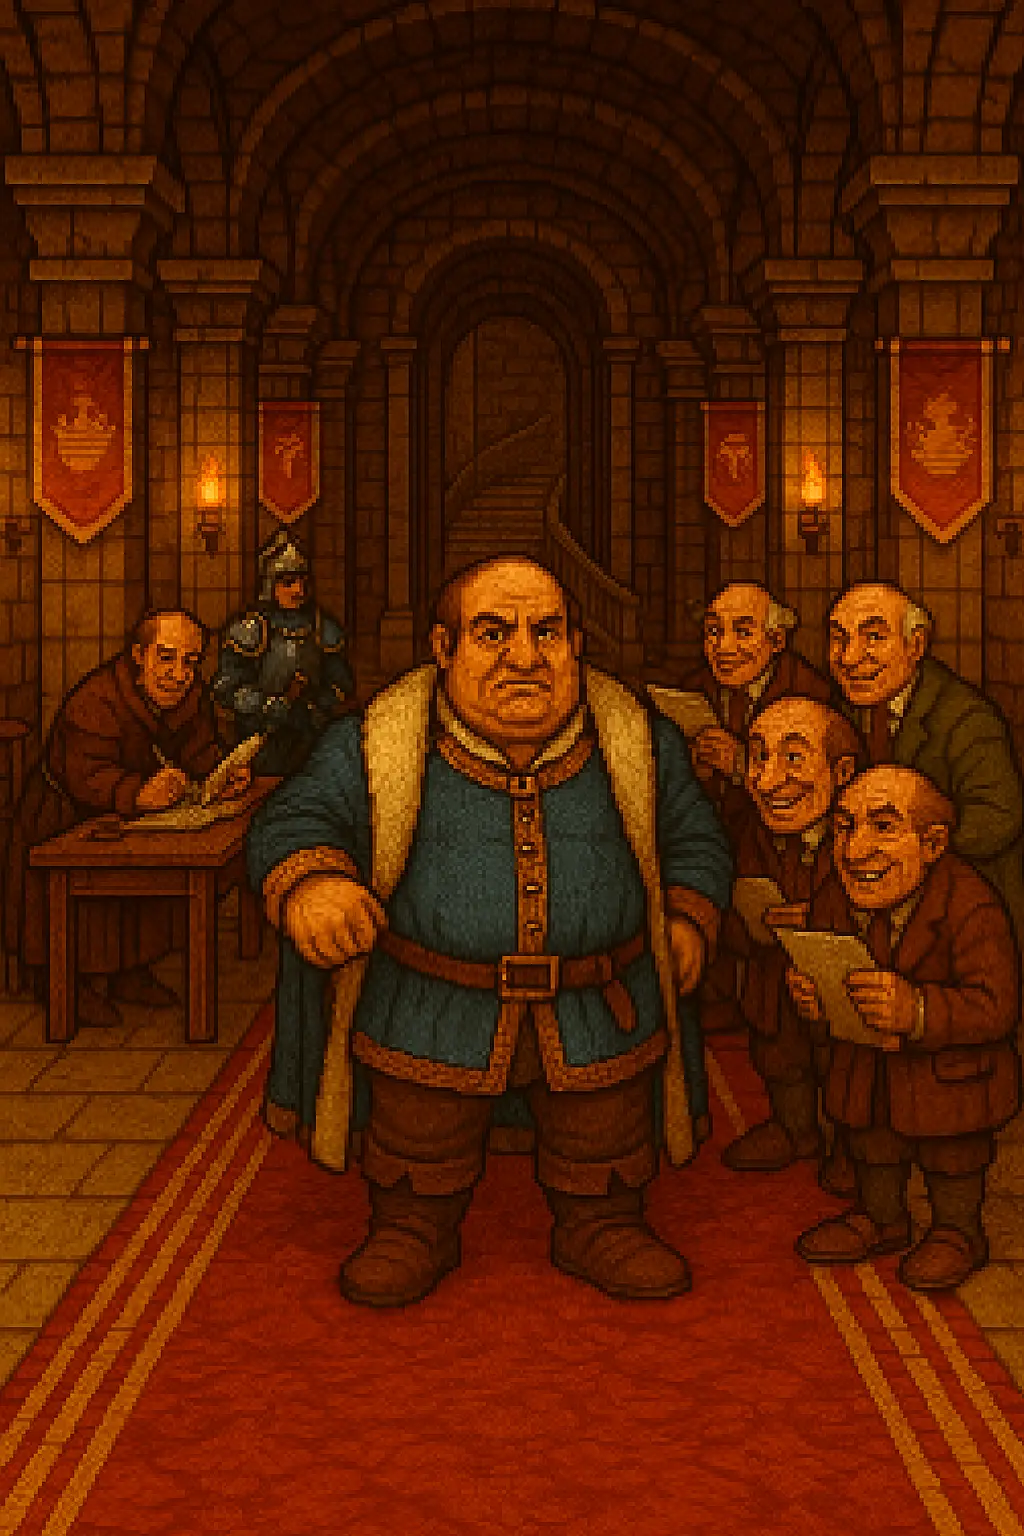
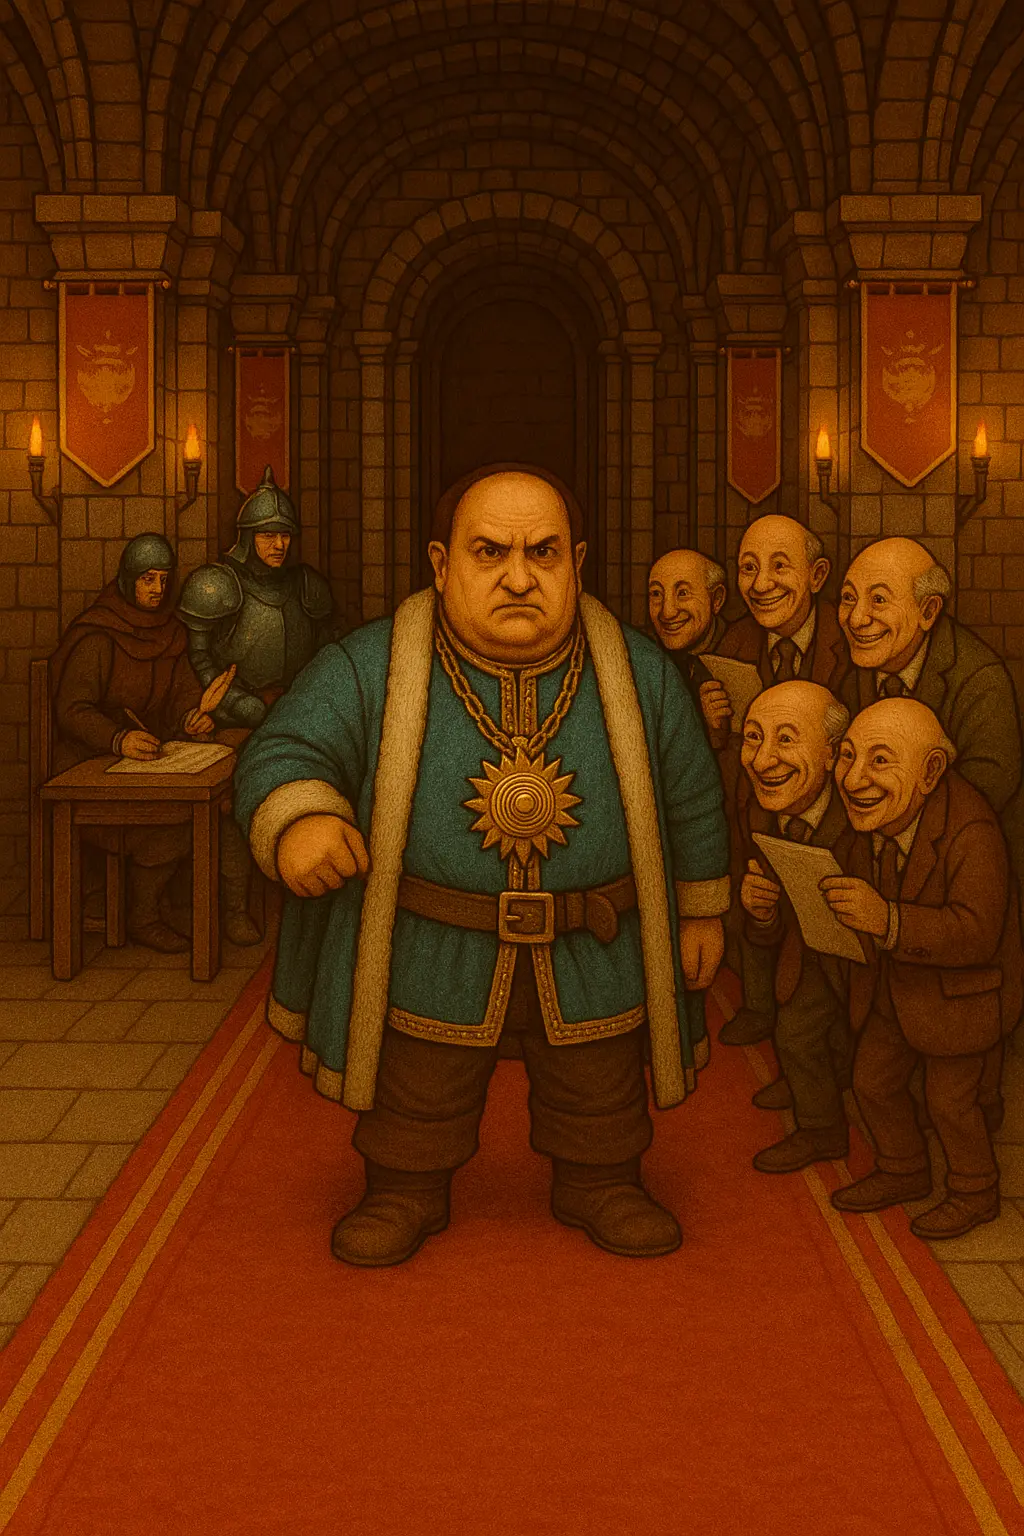
More dialogs

diff --git a/src/DataFixtures/Dialog/DialogStep/PortSaintDoux/PecheurDuQuartierDesPloucsTrait.php b/src/DataFixtures/Dialog/DialogStep/PortSaintDoux/PecheurDuQuartierDesPloucsTrait.php
@@ -5,13 +5,47 @@ namespace App\DataFixtures\Dialog\DialogStep\PortSaintDoux;
 trait PecheurDuQuartierDesPloucsTrait
 {
     const PECHEUR_DU_QUARTIER_DES_PLOUCS_DIALOG_STEPS = [
+        // Dialogue normal
+        [
+            'name' => 'Pêcheur du Quartier des Ploucs - Dialogue',
+            'text' => "<p><em>L'aut'jour chuis allé au quartier des Chauves pour la première fois d'ma vie&nbsp;! Et sûrement la dernière… Y'avait l'Maire qu'a convoqué tout le peuple de la cité, pour nous présenter la &laquo;Nouvelle Ville&raquo;. J'ai rien compris… Mais c'est point d'la nouvelle pour nous les pêcheurs, toute façon, alors voilà. On y foutra point les sabots, nous, dans leur nouvelle capitale. Déjà qu'on peut point s'promener partout où qu'on veut dans la vieille…</em></p>",
+            'first' => true,
+            'conditions' => [
+                'location_unknown' => 'quartier-des-chauves',
+            ],
+            'dialog' => 'dialog_pecheur_du_quartier_des_ploucs',
+            'reference' => 'dialog_step_pecheur_du_quartier_des_ploucs_1',
+        ],
+        [
+            'name' => "Pêcheur du Quartier des Ploucs - Quartier des Chauves",
+            'text' => "<p><em>Le quartier des Chauves&nbsp;! C'est l'quartier le plus bourgeois d'la capitale, voyons&nbsp;! Le Palais Royal, l'Hôtel de Ville, tous les aristos ont leur cabane là-bas&nbsp;! Enfin, quand j'dis &laquo;cabanes&raquo;, j'exagère hein. On parlerait plutôt de palaces, ouais&nbsp;!</em></p><p><em>Mais attention hein&nbsp;! C'est point tout l'monde qui peut s'y promener comme ça. Y'a des gardes de partout&nbsp;! Et des pas commodes en plus. Z'avez intérêt à vérifier vos s'melles de bottes si vous voulez trotter sur leurs pavés.</em></p>",
+            'conditions' => [
+                'location_unknown' => 'quartier-des-chauves',
+            ],
+            'effects' => [
+                'reveal_location' => 'quartier-des-chauves',
+            ],
+            'dialog' => 'dialog_pecheur_du_quartier_des_ploucs',
+            'reference' => 'dialog_step_pecheur_du_quartier_des_ploucs_2',
+        ],
+        [
+            'name' => 'Pêcheur du Quartier des Ploucs - Dialogue',
+            'text' => "<p><em>L'a l'air gentil monsieur l'Maire. On y avait bien mangé là-bas à son discours… Bon, il est sévère comme tous les riches, mais faut l'comprendre&nbsp;:&nbsp;qu'est-ce qu'on ferait sans eux-autres, nous les habitants&nbsp;? Faut bien quelqu'un qui dirige tout c'bazar, avec de la poigne.</em></p>",
+            'first' => true,
+            'conditions' => [
+                'location_known' => 'quartier-des-chauves',
+            ],
+            'dialog' => 'dialog_pecheur_du_quartier_des_ploucs',
+            'reference' => 'dialog_step_pecheur_du_quartier_des_ploucs_3',
+        ],
+
         // Ragots
         [
             'name' => 'Pêcheur du Quartier des Ploucs - Ragots',
-            'text' => "<p><em>Les gens parlent de disparitions, de monstres et d’ombres. Moi, j’vois surtout le prix du sel qui a encore augmenté. Vous savez combien de poissons faut vendre pour s’acheter une botte de carottes&nbsp;? Trop. Mais bon, la mer est fidèle… tant qu’on ne la provoque pas.</em></p>",
+            'text' => "<p><em>Les gens de Plouc, ils aiment pas trop qu'on s'tire du village pour aller vivre à la ville… Y comprennent pas qu'on veuille s'en aller pour vivre mieux, plus de confort, la santé, tout ça…</em></p><p>Il réfléchit un instant, puis avoue.</p><p><em>Ben en fait, y'a point tellement de tout ça ici… on est et on reste des Ploucs, surtout quand on s'côtoie aux gens biens d'la cité. J'me demande des fois si j'étais point mieux au village.</em></p>",
             'first' => true,
-            'dialog' => 'rumor_pecheur',
-            'reference' => 'rumor_step_pecheur_1',
+            'dialog' => 'rumor_pecheur_du_quartier_des_ploucs',
+            'reference' => 'rumor_step_pecheur_du_quartier_des_ploucs_1',
         ],
     ];
 }

diff --git a/src/DataFixtures/Dialog/DialogStep/PortSaintDoux/MaireDePortSaintDouxTrait.php b/src/DataFixtures/Dialog/DialogStep/PortSaintDoux/MaireDePortSaintDouxTrait.php
@@ -1,0 +1,51 @@
+<?php
+
+namespace App\DataFixtures\Dialog\DialogStep\PortSaintDoux;
+
+trait MaireDePortSaintDouxTrait
+{
+    const MAIRE_DE_PORT_SAINT_DOUX_DIALOG_STEPS = [
+        // Dialogue normal
+        [
+            'name' => 'Maire de Port Saint-Doux - Dialogue',
+            'text' => "<p><em>Ah, la Nouvelle Ville… Mon projet le plus ambitieux à ce jour&nbsp;! Un quartier flambant neuf, un joyau d’urbanisme qui fera resplendir notre chère Port Saint-Doux dans tout le continent en-dessous. Enfin, nous aurons une capitale digne de ce nom, au cœur même de ce Royaume de Ploucs et de barbares. Je vous assure, sans moi, cette ville ne serait qu’un port de pêche boueux envahi de marchands illettrés.</em></p>",
+            'first' => true,
+            'conditions' => [
+                'location_unknown' => 'nouvelle-ville',
+            ],
+            'dialog' => 'dialog_maire_de_port_saint_doux',
+            'reference' => 'dialog_step_maire_de_port_saint_doux_1',
+        ],
+        [
+            'name' => "Maire de Port Saint-Doux - Nouvelle Ville",
+            'text' => "<p><em>Au nord de la ville bien sûr, où voulez-vous qu'on construise&nbsp;? Vous n'étiez pas à la réunion&nbsp;? Imaginez donc&nbsp;:&nbsp;un Théâtre de la Renaissance, plus raffiné encore que les salles elfiques&nbsp;;&nbsp;une Grande Bibliothèque, où chaque langue du monde trouvera sa place, sauf peut-être les dialectes gobelins&nbsp;;&nbsp;une Maison des Guildes pour enfin remettre de l’ordre dans le capharnaüm commercial ambiant&nbsp;—&nbsp;fini les fraudes&nbsp;! Et surtout, la Maison de l’Urbanisme, mon chef-d'œuvre administratif, où les plus brillants architectes centraliseront les plans de la ville, recoin par recoin. Ce sera… grandiose&nbsp;! Merveilleux&nbsp;! À mon image, en somme.</em></p>",
+            'conditions' => [
+                'location_unknown' => 'nouvelle-ville',
+            ],
+            'effects' => [
+                'reveal_location' => 'nouvelle-ville',
+            ],
+            'dialog' => 'dialog_maire_de_port_saint_doux',
+            'reference' => 'dialog_step_maire_de_port_saint_doux_2',
+        ],
+        [
+            'name' => 'Maire de Port Saint-Doux - Dialogue',
+            'text' => "<p><em>Bon, soyons francs. Le chantier avance, certes, mais plus lentement que prévu. Le Palais a coupé les vivres depuis le départ du Roi&nbsp;—&nbsp;quelle idée, aussi, de quitter la ville à ce moment-là… Bref. Si ça continue, je devrai gouverner seul, sans directives royales. Mais rassurez-vous, la ville ne pourrait rêver d’un meilleur guide que moi. Parce qu'il y a encore fort à faire&nbsp;:&nbsp;le vieux port n'a plus sa place, par exemple. Il faut rénover ce quartier également. Faire moderne&nbsp;! Audacieux&nbsp;!</em></p>",
+            'first' => true,
+            'conditions' => [
+                'location_known' => 'nouvelle-ville',
+            ],
+            'dialog' => 'dialog_maire_de_port_saint_doux',
+            'reference' => 'dialog_step_maire_de_port_saint_doux_3',
+        ],
+
+        // Ragots
+        [
+            'name' => 'Maire de Port Saint-Doux - Ragots',
+            'text' => "<p><em>Ces pêcheurs du village de Plouc… Toujours plus nombreux, toujours plus envahissants. Je leur ai offert un quartier&nbsp;—&nbsp;un vrai geste d'ouverture&nbsp;—&nbsp;et qu’en ont-ils fait&nbsp;? Un cloaque, évidemment. Et maintenant, ils rêvent de s'étendre. Mais je veille. On ne va pas laisser la capitale se faire grignoter par des rustres. Et je ne parle même pas des druides, des nains, des orcs ou des elfes… Chacun chez soi, voilà la clé d’une ville qui fonctionne.</em></p>",
+            'first' => true,
+            'dialog' => 'rumor_maire_de_port_saint_doux',
+            'reference' => 'rumor_step_maire_de_port_saint_doux_1',
+        ],
+    ];
+}

diff --git a/src/Service/Game/Screen/Cinematic/CinematicScreenService.php b/src/Service/Game/Screen/Cinematic/CinematicScreenService.php
@@ -2,21 +2,21 @@
 
 namespace App\Service\Game\Screen\Cinematic;
 
-use App\Entity\Character\Character;
 use App\Entity\Character\Player;
 use App\Entity\Combat\Combat;
+use App\Entity\Dialog\DialogStep;
 use App\Entity\Screen\CinematicScreen;
 use App\Entity\Location\Location;
-use App\Service\Game\Screen\Interaction\InteractionScreenService;
+use App\Service\Game\Screen\Dialog\DialogScreenService;
 use App\Service\Game\Screen\Location\LocationScreenService;
 use Doctrine\ORM\EntityManagerInterface;
 
 readonly class CinematicScreenService
 {
     public function __construct(
-        private EntityManagerInterface   $entityManager,
-        private LocationScreenService    $locationScreenService,
-        private InteractionScreenService $interactionScreenService
+        private EntityManagerInterface $entityManager,
+        private LocationScreenService  $locationScreenService,
+        private DialogScreenService    $dialogScreenService
     )
     {
     }
@@ -31,9 +31,9 @@ readonly class CinematicScreenService
         }
 
         // Choix de redirection dynamique
-        if($combat->getRedirectToInteraction()) {
-            $character = $this->entityManager->getRepository(Character::class)->findOneBy(['slug' => $combat->getRedirectToInteraction()]);
-            $redirectSlug = $this->interactionScreenService->getScreen($character, $player)->getSlug();
+        if($combat->getRedirectToDialog()) {
+            $dialogStep = $this->entityManager->getRepository(DialogStep::class)->findOneBy(['slug' => $combat->getRedirectToDialog()]);
+            $redirectSlug = $this->dialogScreenService->getScreen($dialogStep, $player)->getSlug();
         } else {
             $redirectSlug = $this->locationScreenService->getScreen($combat->getLocation(), $player)->getSlug();
         }
@@ -47,7 +47,7 @@ readonly class CinematicScreenService
             ->setReward($combat->getReward())
             ->setActions([
                 'footer' => [[
-                    'type' => ($combat->getRedirectToInteraction() ? 'interaction' : 'location'),
+                    'type' => ($combat->getRedirectToDialog() ? 'dialog' : 'location'),
                     'slug' => $redirectSlug,
                     'label' => 'Continuer',
                     'thumbnail' => 'img/core/action/continue.png',

diff --git a/src/DataFixtures/Dialog/DialogReplyFixtures.php b/src/DataFixtures/Dialog/DialogReplyFixtures.php
@@ -9,6 +9,7 @@ use App\DataFixtures\Dialog\DialogReply\PortSaintDoux\BiloLePassantTrait;
 use App\DataFixtures\Dialog\DialogReply\PortSaintDoux\GartLeForgeronTrait;
 use App\DataFixtures\Dialog\DialogReply\PortSaintDoux\GrandPretreDePortSaintDouxTrait;
 use App\DataFixtures\Dialog\DialogReply\PortSaintDoux\JarrodLeTavernierTrait;
+use App\DataFixtures\Dialog\DialogReply\PortSaintDoux\MaireDePortSaintDouxTrait;
 use App\DataFixtures\Dialog\DialogReply\PortSaintDoux\MyraLaVieilleTrait;
 use App\DataFixtures\Dialog\DialogReply\PortSaintDoux\PecheurDuQuartierDesPloucsTrait;
 use App\DataFixtures\Dialog\DialogReply\PortSaintDoux\RobertLeGardeTrait;
@@ -35,6 +36,7 @@ class DialogReplyFixtures extends Fixture implements OrderedFixtureInterface
     use RobertLeGardeTrait;
     use SophieLaMarchandeTrait;
     use WilbertLArcanisteTrait;
+    use MaireDePortSaintDouxTrait;
     use FaroukLeNomadeTrait;
     use FauxDjinnTrait;
     use TheobaldGrisMurmureTrait;
@@ -55,6 +57,7 @@ class DialogReplyFixtures extends Fixture implements OrderedFixtureInterface
             self::ROBERT_LE_GARDE_DIALOG_REPLIES,
             self::SOPHIE_LA_MARCHANDE_DIALOG_REPLIES,
             self::WILBERT_L_ARCANISTE_DIALOG_REPLIES,
+            self::MAIRE_DE_PORT_SAINT_DOUX_DIALOG_REPLIES,
 
             // Sables chauds
             self::FAROUK_LE_NOMADE_DIALOG_REPLIES,

diff --git a/src/DataFixtures/Dialog/DialogStepFixtures.php b/src/DataFixtures/Dialog/DialogStepFixtures.php
@@ -9,6 +9,7 @@ use App\DataFixtures\Dialog\DialogStep\PortSaintDoux\BiloLePassantTrait;
 use App\DataFixtures\Dialog\DialogStep\PortSaintDoux\GartLeForgeronTrait;
 use App\DataFixtures\Dialog\DialogStep\PortSaintDoux\GrandPretreDePortSaintDouxTrait;
 use App\DataFixtures\Dialog\DialogStep\PortSaintDoux\JarrodLeTavernierTrait;
+use App\DataFixtures\Dialog\DialogStep\PortSaintDoux\MaireDePortSaintDouxTrait;
 use App\DataFixtures\Dialog\DialogStep\PortSaintDoux\MyraLaVieilleTrait;
 use App\DataFixtures\Dialog\DialogStep\PortSaintDoux\PecheurDuQuartierDesPloucsTrait;
 use App\DataFixtures\Dialog\DialogStep\PortSaintDoux\RobertLeGardeTrait;
@@ -35,6 +36,7 @@ class DialogStepFixtures extends Fixture implements OrderedFixtureInterface
     use RobertLeGardeTrait;
     use SophieLaMarchandeTrait;
     use WilbertLArcanisteTrait;
+    use MaireDePortSaintDouxTrait;
     use FaroukLeNomadeTrait;
     use FauxDjinnTrait;
     use TheobaldGrisMurmureTrait;
@@ -55,6 +57,7 @@ class DialogStepFixtures extends Fixture implements OrderedFixtureInterface
             self::ROBERT_LE_GARDE_DIALOG_STEPS,
             self::SOPHIE_LA_MARCHANDE_DIALOG_STEPS,
             self::WILBERT_L_ARCANISTE_DIALOG_STEPS,
+            self::MAIRE_DE_PORT_SAINT_DOUX_DIALOG_STEPS,
 
             // Sables Chauds
             self::FAROUK_LE_NOMADE_DIALOG_STEPS,

diff --git a/src/DataFixtures/Dialog/DialogFixtures.php b/src/DataFixtures/Dialog/DialogFixtures.php
@@ -9,6 +9,7 @@ use App\DataFixtures\Dialog\Dialog\PortSaintDoux\BiloLePassantTrait;
 use App\DataFixtures\Dialog\Dialog\PortSaintDoux\GartLeForgeronTrait;
 use App\DataFixtures\Dialog\Dialog\PortSaintDoux\GrandPretreDePortSaintDouxTrait;
 use App\DataFixtures\Dialog\Dialog\PortSaintDoux\JarrodLeTavernierTrait;
+use App\DataFixtures\Dialog\Dialog\PortSaintDoux\MaireDePortSaintDouxTrait;
 use App\DataFixtures\Dialog\Dialog\PortSaintDoux\MyraLaVieilleTrait;
 use App\DataFixtures\Dialog\Dialog\PortSaintDoux\PecheurDuQuartierDesPloucsTrait;
 use App\DataFixtures\Dialog\Dialog\PortSaintDoux\RobertLeGardeTrait;
@@ -34,6 +35,7 @@ class DialogFixtures extends Fixture implements OrderedFixtureInterface
     use RobertLeGardeTrait;
     use SophieLaMarchandeTrait;
     use WilbertLArcanisteTrait;
+    use MaireDePortSaintDouxTrait;
     use FaroukLeNomadeTrait;
     use FauxDjinnTrait;
     use TheobaldGrisMurmureTrait;
@@ -54,6 +56,7 @@ class DialogFixtures extends Fixture implements OrderedFixtureInterface
             self::ROBERT_LE_GARDE_DIALOGS,
             self::SOPHIE_LA_MARCHANDE_DIALOGS,
             self::WILBERT_L_ARCANISTE_DIALOGS,
+            self::MAIRE_DE_PORT_SAINT_DOUX_DIALOGS,
 
             // Sables Chauds
             self::FAROUK_LE_NOMADE_DIALOGS,

diff --git a/migrations/Version20250423183846.php b/migrations/Version20250423183846.php
@@ -21,7 +21,7 @@ final class Version20250423183846 extends AbstractMigration
     {
         // this up() migration is auto-generated, please modify it to your needs
         $this->addSql(<<<'SQL'
-            CREATE TABLE combat (id SERIAL NOT NULL, reward_id INT DEFAULT NULL, location_id INT NOT NULL, quest_step_id INT DEFAULT NULL, name VARCHAR(255) NOT NULL, slug VARCHAR(255) NOT NULL, picture VARCHAR(255) NOT NULL, thumbnail VARCHAR(255) NOT NULL, description TEXT NOT NULL, conditions JSON DEFAULT NULL, victory_description TEXT NOT NULL, defeat_description TEXT NOT NULL, redirect_to_interaction VARCHAR(255) DEFAULT NULL, PRIMARY KEY(id))
+            CREATE TABLE combat (id SERIAL NOT NULL, reward_id INT DEFAULT NULL, location_id INT NOT NULL, quest_step_id INT DEFAULT NULL, name VARCHAR(255) NOT NULL, slug VARCHAR(255) NOT NULL, picture VARCHAR(255) NOT NULL, thumbnail VARCHAR(255) NOT NULL, description TEXT NOT NULL, conditions JSON DEFAULT NULL, victory_description TEXT NOT NULL, defeat_description TEXT NOT NULL, redirect_to_dialog VARCHAR(255) DEFAULT NULL, PRIMARY KEY(id))
         SQL);
         $this->addSql(<<<'SQL'
             CREATE INDEX IDX_8D51E398E466ACA1 ON combat (reward_id)

diff --git a/src/DataFixtures/Dialog/Dialog/PortSaintDoux/MaireDePortSaintDouxTrait.php b/src/DataFixtures/Dialog/Dialog/PortSaintDoux/MaireDePortSaintDouxTrait.php
@@ -4,23 +4,23 @@ namespace App\DataFixtures\Dialog\Dialog\PortSaintDoux;
 
 use App\Entity\Character\Npc;
 
-trait PecheurDuQuartierDesPloucsTrait
+trait MaireDePortSaintDouxTrait
 {
-    const PECHEUR_DU_QUARTIER_DES_PLOUCS_DIALOGS = [
+    const MAIRE_DE_PORT_SAINT_DOUX_DIALOGS = [
         // Dialogue normal
         [
             'type' => 'dialog',
-            'character' => 'npc_pecheur',
+            'character' => 'npc_maire_de_port_saint_doux',
             'characterClass' => Npc::class,
-            'reference' => 'dialog_pecheur_du_quartier_des_ploucs',
+            'reference' => 'dialog_maire_de_port_saint_doux',
         ],
 
         // Ragots
         [
             'type' => 'rumor',
-            'character' => 'npc_pecheur',
+            'character' => 'npc_maire_de_port_saint_doux',
             'characterClass' => Npc::class,
-            'reference' => 'rumor_pecheur_du_quartier_des_ploucs',
+            'reference' => 'rumor_maire_de_port_saint_doux',
         ],
     ];
 }

diff --git a/src/DataFixtures/Character/Npc/PortSaintDoux/QuartierDesPloucsTrait.php b/src/DataFixtures/Character/Npc/PortSaintDoux/QuartierDesPloucsTrait.php
@@ -28,7 +28,7 @@ trait QuartierDesPloucsTrait
             'name' => 'Pêcheur',
             'picture' => 'img/core/npc/pecheur.png',
             'thumbnail' => 'img/core/npc/pecheur_thumb.png',
-            'description' => "<p>Cet homme a l'air pauvre et plutôt mal nourri. Il s'arrête néanmoins en vous voyant vous approcher, et vous regarde avec un sourire timide.</p><p><em>Bonjour, étranger. Vous cherchez du poisson frais&nbsp;? Je peux vous en vendre à un bon prix.</em></p>",
+            'description' => "<p>Cet homme a l'air pauvre et plutôt mal nourri. Il s'arrête néanmoins en vous voyant vous approcher, et vous regarde avec un sourire timide.</p><p><em>Bonjour, étranger. Belle journée pour la pêche, pas vrai&nbsp;? Vous cherchez du poisson frais&nbsp;? Je peux vous en vendre à un bon prix&nbsp;!</em></p>",
             'strength' => 10,
             'dexterity' => 12,
             'constitution' => 8,

diff --git a/src/Entity/Combat/Combat.php b/src/Entity/Combat/Combat.php
@@ -47,7 +47,7 @@ class Combat
     private ?string $defeatDescription = null;
 
     #[ORM\Column(length: 255, nullable: true)]
-    private ?string $redirectToInteraction = null;
+    private ?string $redirectToDialog = null;
 
     #[ORM\ManyToOne]
     private ?Reward $reward = null;
@@ -175,14 +175,14 @@ class Combat
         return $this;
     }
 
-    public function getRedirectToInteraction(): ?string
+    public function getRedirectToDialog(): ?string
     {
-        return $this->redirectToInteraction;
+        return $this->redirectToDialog;
     }
 
-    public function setRedirectToInteraction(?string $redirectToInteraction): static
+    public function setRedirectToDialog(?string $redirectToDialog): static
     {
-        $this->redirectToInteraction = $redirectToInteraction;
+        $this->redirectToDialog = $redirectToDialog;
 
         return $this;
     }

diff --git a/src/DataFixtures/Combat/CombatFixtures.php b/src/DataFixtures/Combat/CombatFixtures.php
@@ -54,7 +54,7 @@ class CombatFixtures extends Fixture implements OrderedFixtureInterface
                     ->setConditions($data['conditions'] ?? null)
                     ->setVictoryDescription($data['victoryDescription'] ?? null)
                     ->setDefeatDescription($data['defeatDescription'] ?? null)
-                    ->setRedirectToInteraction($data['redirectToInteraction'] ?? null)
+                    ->setRedirectToDialog($data['redirectToDialog'] ?? null)
                     ->setReward(isset($data['reward']) ? $this->getReference($data['reward'], Reward::class) : null)
                     ->setLocation(isset($data['location']) ? $this->getReference($data['location'], Location::class) : null)
                     ->setQuestStep(isset($data['questStep']) ? $this->getReference($data['questStep'], QuestStep::class) : null);

diff --git a/src/Service/Game/Screen/Interaction/InteractionScreenService.php b/src/Service/Game/Screen/Interaction/InteractionScreenService.php
@@ -45,7 +45,7 @@ readonly class InteractionScreenService
         if($dialog) {
             $footerActions[] = [
                 'type' => 'dialog',
-                'slug' => $dialog->getId(),
+                'slug' => $dialog->getSlug(),
                 'label' => 'Discuter avec ' . $character->getName(),
                 'thumbnail' => 'img/core/action/talk.png',
             ];
@@ -56,7 +56,7 @@ readonly class InteractionScreenService
         if($rumor) {
             $footerActions[] = [
                 'type' => 'dialog',
-                'slug' => $rumor->getId(),
+                'slug' => $rumor->getSlug(),
                 'label' => 'Ragots de ' . $character->getName(),
                 'thumbnail' => 'img/core/action/rumor.png',
             ];
